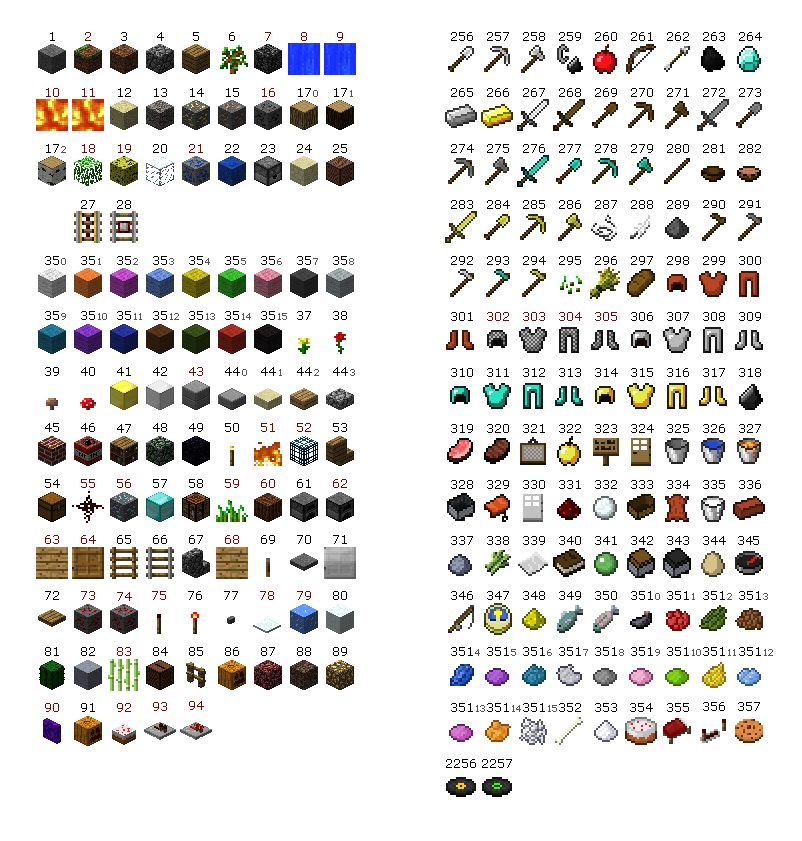
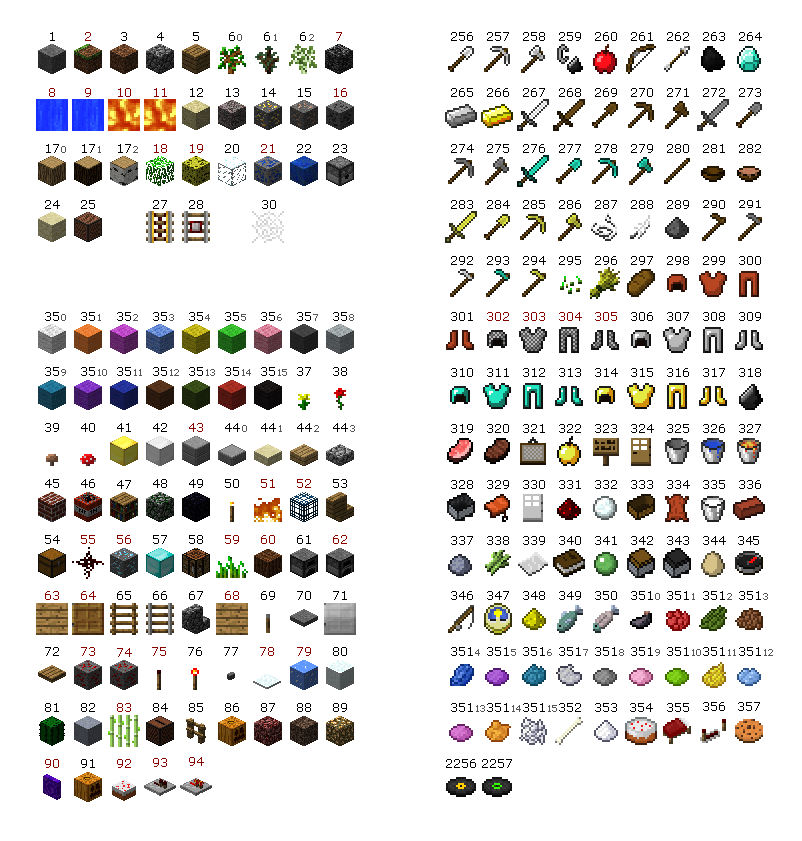
Added the various sapling types and spiderweb, fixed the clear inventory menu item.

Changed region(s): [[0.0312, 0.2473, 0.4676, 0.9584], [0.0312, 0.0927, 0.4364, 0.2164], [0.2494, 0.0309, 0.4676, 0.1546]]

diff --git a/Classes/IJInventoryWindowController.m b/Classes/IJInventoryWindowController.m
@@ -46,6 +46,7 @@
 	
 	// Item Table View setup
 	NSArray *keys = [[IJInventoryItem itemIdLookup] allKeys];
+	//NSLog(@"Item CVS Data:\n%@",[IJInventoryItem itemIdLookup]);
 	keys = [keys sortedArrayUsingSelector:@selector(compare:)];
 	allItemIds = [[NSArray alloc] initWithArray:keys];
 	filteredItemIds = [allItemIds retain];
@@ -354,13 +355,26 @@
 
 - (IBAction)copyWorldSeed:(id)sender
 {
-	
 	NSString *worldSeed = [NSString stringWithFormat:@"%@",[level worldSeedContainer].numberValue];
 	
 	NSPasteboard *pb = [NSPasteboard generalPasteboard];
 	NSArray *types = [NSArray arrayWithObjects:NSStringPboardType, nil];
 	[pb declareTypes:types owner:self];
 	[pb setString:worldSeed forType:NSStringPboardType];
+}
+
+- (IBAction)incrementTime:(id)sender
+{
+	if ([sender selectedSegment] == 0) {		
+		int wTime = [[self worldTime] intValue];
+		int result = wTime + (24000 - (wTime % 24000));
+		[self setWorldTime:[NSNumber numberWithInt:result]];
+	}
+	else if ([sender selectedSegment] == 1) {
+		int wTime = [[self worldTime] intValue];
+		int result = wTime + (12000 - (wTime % 12000));
+		[self setWorldTime:[NSNumber numberWithInt:result]];
+	}
 }
 
 - (void)saveDocument:(id)sender
@@ -572,10 +586,23 @@
 #pragma mark Inventory
 
 - (void)clearInventory
-{
+{	
 	[armorInventory removeAllObjects];
 	[quickInventory removeAllObjects];
 	[normalInventory removeAllObjects];
+	
+	// Add placeholder inventory items:
+	for (int i = 0; i < IJInventorySlotQuickLast + 1 - IJInventorySlotQuickFirst; i++) {
+		[quickInventory addObject:[IJInventoryItem emptyItemWithSlot:IJInventorySlotQuickFirst + i]];
+	}
+	
+	for (int i = 0; i < IJInventorySlotNormalLast + 1 - IJInventorySlotNormalFirst; i++) {
+		[normalInventory addObject:[IJInventoryItem emptyItemWithSlot:IJInventorySlotNormalFirst + i]];
+	}
+	
+	for (int i = 0; i < IJInventorySlotArmorLast + 1 - IJInventorySlotArmorFirst; i++) {
+		[armorInventory addObject:[IJInventoryItem emptyItemWithSlot:IJInventorySlotArmorFirst + i]];
+	}	
 	
 	[inventoryView setItems:normalInventory];
 	[quickView setItems:quickInventory];

diff --git a/Classes/IJInventoryItem.m b/Classes/IJInventoryItem.m
@@ -69,34 +69,42 @@
 	int index = 0;
 	
 	// Blocks
-	if (itemId <= 25 || (itemId >= 27 && itemId <= 28) || (itemId >= 35 && itemId <= 94))
+	if (itemId <= 25 || (itemId >= 27 && itemId <= 28) || itemId == 30 || (itemId >= 35 && itemId <= 94) && itemId != 36)
 	{
-		if (itemId <= 16) {
-			index = itemId - 1; // first item is 1
+		if (itemId <= 5) {
+			index = itemId - 1;
+		}
+		else if (itemId == 6) {
+			if (damage > 2)
+				damage = 0;
+			index = itemId - 1 + damage;			
+		}
+		else if (itemId <= 16) {
+			index = itemId + 1;
 		}
 		else if (itemId == 17) {
 			if (damage > 2)
 				damage = 0;
-			index = itemId - 1 + damage;
+			index = itemId + 1 + damage;
 		}
 		else if (itemId <= 34) {
-			index = itemId + 1;		
+			index = itemId + 3;		
 		}
 		else if (itemId == 35) {
 			if (damage > 15)
 				damage = 0;
-			index = itemId + 1 + damage;
+			index = itemId + 10 + damage;
 		}
 		else if (itemId <= 43) {
-			index = itemId + 15;
+			index = itemId + 24;
 		}
 		else if (itemId == 44) {
 			if (damage > 3)
 				damage = 0;
-			index = itemId + 15 + damage;
+			index = itemId + 24 + damage;
 		}
 		else if (itemId <= 95) {
-			index = itemId + 18;
+			index = itemId + 27;
 		}
 
 		atlasOffset = NSMakePoint(36, 75);

diff --git a/Classes/IJInventoryWindowController.h b/Classes/IJInventoryWindowController.h
@@ -73,6 +73,7 @@
 - (IBAction)addItem:(id)sender;
 - (IBAction)clearInventoryItems:(id)sender;
 - (IBAction)copyWorldSeed:(id)sender;
+- (IBAction)incrementTime:(id)sender;
 
 - (void)saveWorld;
 - (BOOL)loadWorldAtPath:(NSString *)path;
